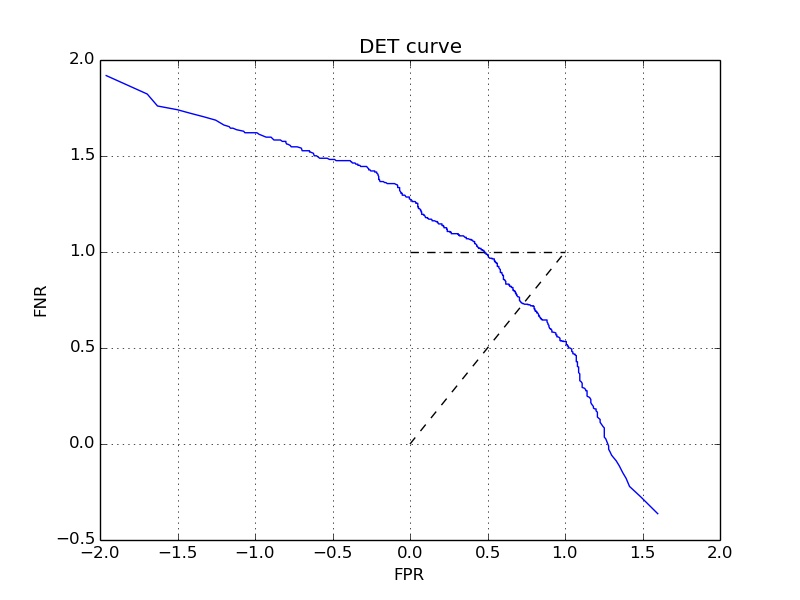
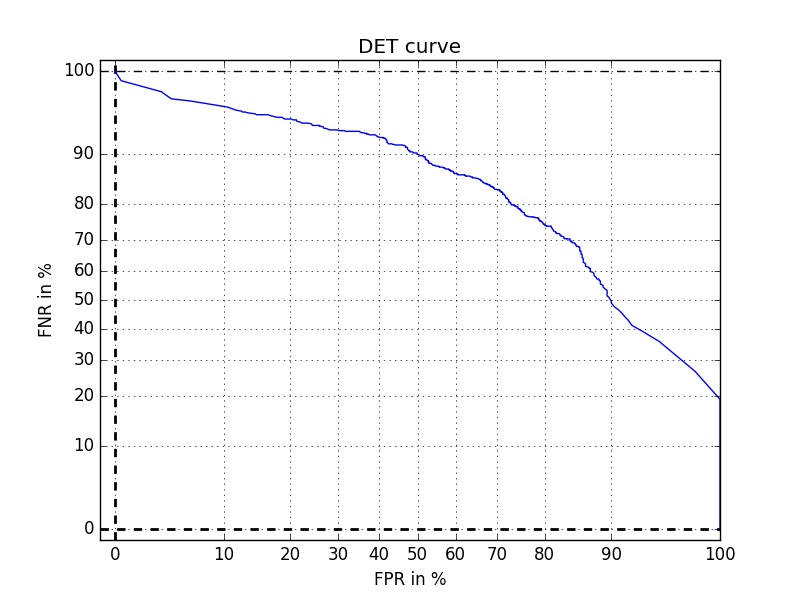
Done with ls and nls

diff --git a/assignment-2/ls/scripts/compare.py b/assignment-2/ls/scripts/compare.py
@@ -1,5 +1,8 @@
 import h5py
 from matplotlib import pyplot as plt
+import numpy as np
+from scipy.stats import norm
+import matplotlib.ticker as ticker
 
 from helpers import loadModel
 from analyse import computeROC
@@ -36,7 +39,63 @@ def plotROCs(rates_list, plot):
     ax.legend([red, green, blue, yellow, cyan], ['C-1', 'C-2', 'C-3', 'C-4', 'C-5'])
     plt.savefig(plot)
 
-def compare(data, roc_plot):
+def getNormalDeviate(array):
+    vals = []
+    for i in range(len(array)):
+        val = norm.ppf(array[i])
+        if val > 2:
+            val = 2
+        elif val < -2:
+            val = -2
+        vals.append(val)
+    return vals
+
+def plotDETs(rates_list, plot):
+
+    fig = plt.figure(1)
+    ax = fig.gca()
+    # Label the graph
+    ax.set_title('DET Curves')
+    ax.set_xlabel('FPR in %')
+    ax.set_ylabel('FNR in %')
+    # Set ticks
+    vals = np.arange(0.0, 110.0, 10.0)
+    ticks_name = [str(int(val)) for val in vals]
+    ticks_pos = [norm.ppf(val / 100) for val in vals]
+    ticks_pos[0], ticks_pos[-1] = -2, 2
+    ax.xaxis.set_major_locator(ticker.FixedLocator((ticks_pos)))
+    ax.xaxis.set_major_formatter(ticker.FixedFormatter((ticks_name)))
+    ax.yaxis.set_major_locator(ticker.FixedLocator((ticks_pos)))
+    ax.yaxis.set_major_formatter(ticker.FixedFormatter((ticks_name)))
+    # Turn on grid, add x-axis and y-axis
+    ax.set_xlim([-2.1, 2])
+    ax.set_ylim([-2.1, 2.1])
+    ax.grid()
+    # Set x-axis and y-axis
+    ax.plot([-2.1, 2], [-2.0, -2.0], linestyle = '--', linewidth = 2, color = 'black')
+    ax.plot([-2.0, -2.0], [-2.1, 2.1], linestyle = '--', linewidth = 2,  color = 'black')
+    # Bound the curve above
+    ax.plot([-2.1, 2.0], [2.0, 2.0], linestyle = '--', color = 'black')
+    # Specify colors
+    colors = ['red', 'green', 'blue', 'yellow', 'cyan']
+    for model in range(5):
+        fpr, tpr = rates_list[model]
+        fnr = [1 - t for t in tpr]
+        x, y = [], []
+        x = getNormalDeviate(fpr)
+        y = getNormalDeviate(fnr)   
+        # Plot the DET curve 
+        ax.plot(x, y, linewidth = 1, color = colors[model])
+
+    red = plt.Line2D((0,1), (0,0), color = 'red', marker='o', linestyle = '')
+    green = plt.Line2D((0,1), (0,0), color = 'green', marker='o', linestyle = '')
+    blue = plt.Line2D((0,1), (0,0), color = 'blue', marker='o', linestyle = '')
+    yellow = plt.Line2D((0,1), (0,0), color = 'yellow', marker='o', linestyle = '')
+    cyan = plt.Line2D((0,1), (0,0), color = 'cyan', marker='o', linestyle = '')
+    ax.legend([red, green, blue, yellow, cyan], ['C-1', 'C-2', 'C-3', 'C-4', 'C-5'])
+    plt.savefig(plot)
+
+def compare(data, roc_plot, det_plot):
     print 'Compare models on validation data'
     rates_list = []
     for model in ['C-1', 'C-2', 'C-3', 'C-4', 'C-5']:
@@ -46,8 +105,9 @@ def compare(data, roc_plot):
         # Add to rates_list
         rates_list.append(rates)
     plotROCs(rates_list, roc_plot)
+    plotDETs(rates_list, det_plot)
 
 if __name__ == '__main__':
     data = h5py.File('data/valid.h5', 'r')
-    compare(data, 'plots/compare.jpg')
+    compare(data, 'plots/compare_roc.jpg', 'plots/compare_det.jpg')
 

diff --git a/assignment-2/nls/scripts/compare.py b/assignment-2/nls/scripts/compare.py
@@ -1,5 +1,8 @@
 import h5py
 from matplotlib import pyplot as plt
+import numpy as np
+from scipy.stats import norm
+import matplotlib.ticker as ticker
 
 from helpers import loadModel
 from analyse import computeROC
@@ -36,7 +39,63 @@ def plotROCs(rates_list, plot):
     ax.legend([red, green, blue, yellow, cyan], ['C-1', 'C-2', 'C-3', 'C-4', 'C-5'])
     plt.savefig(plot)
 
-def compare(data, roc_plot):
+def getNormalDeviate(array):
+    vals = []
+    for i in range(len(array)):
+        val = norm.ppf(array[i])
+        if val > 2:
+            val = 2
+        elif val < -2:
+            val = -2
+        vals.append(val)
+    return vals
+
+def plotDETs(rates_list, plot):
+
+    fig = plt.figure(1)
+    ax = fig.gca()
+    # Label the graph
+    ax.set_title('DET Curves')
+    ax.set_xlabel('FPR in %')
+    ax.set_ylabel('FNR in %')
+    # Set ticks
+    vals = np.arange(0.0, 110.0, 10.0)
+    ticks_name = [str(int(val)) for val in vals]
+    ticks_pos = [norm.ppf(val / 100) for val in vals]
+    ticks_pos[0], ticks_pos[-1] = -2, 2
+    ax.xaxis.set_major_locator(ticker.FixedLocator((ticks_pos)))
+    ax.xaxis.set_major_formatter(ticker.FixedFormatter((ticks_name)))
+    ax.yaxis.set_major_locator(ticker.FixedLocator((ticks_pos)))
+    ax.yaxis.set_major_formatter(ticker.FixedFormatter((ticks_name)))
+    # Turn on grid, add x-axis and y-axis
+    ax.set_xlim([-2.1, 2])
+    ax.set_ylim([-2.1, 2.1])
+    ax.grid()
+    # Set x-axis and y-axis
+    ax.plot([-2.1, 2], [-2.0, -2.0], linestyle = '--', linewidth = 2, color = 'black')
+    ax.plot([-2.0, -2.0], [-2.1, 2.1], linestyle = '--', linewidth = 2,  color = 'black')
+    # Bound the curve above
+    ax.plot([-2.1, 2.0], [2.0, 2.0], linestyle = '--', color = 'black')
+    # Specify colors
+    colors = ['red', 'green', 'blue', 'yellow', 'cyan']
+    for model in range(5):
+        fpr, tpr = rates_list[model]
+        fnr = [1 - t for t in tpr]
+        x, y = [], []
+        x = getNormalDeviate(fpr)
+        y = getNormalDeviate(fnr)   
+        # Plot the DET curve 
+        ax.plot(x, y, linewidth = 1, color = colors[model])
+
+    red = plt.Line2D((0,1), (0,0), color = 'red', marker='o', linestyle = '')
+    green = plt.Line2D((0,1), (0,0), color = 'green', marker='o', linestyle = '')
+    blue = plt.Line2D((0,1), (0,0), color = 'blue', marker='o', linestyle = '')
+    yellow = plt.Line2D((0,1), (0,0), color = 'yellow', marker='o', linestyle = '')
+    cyan = plt.Line2D((0,1), (0,0), color = 'cyan', marker='o', linestyle = '')
+    ax.legend([red, green, blue, yellow, cyan], ['C-1', 'C-2', 'C-3', 'C-4', 'C-5'])
+    plt.savefig(plot)
+
+def compare(data, roc_plot, det_plot):
     print 'Compare models on validation data'
     rates_list = []
     for model in ['C-1', 'C-2', 'C-3', 'C-4', 'C-5']:
@@ -46,8 +105,9 @@ def compare(data, roc_plot):
         # Add to rates_list
         rates_list.append(rates)
     plotROCs(rates_list, roc_plot)
+    plotDETs(rates_list, det_plot)
 
 if __name__ == '__main__':
     data = h5py.File('data/valid.h5', 'r')
-    compare(data, 'plots/compare.jpg')
+    compare(data, 'plots/compare_roc.jpg', 'plots/compare_det.jpg')
 

diff --git a/assignment-2/ls/scripts/analyse.py b/assignment-2/ls/scripts/analyse.py
@@ -1,5 +1,7 @@
 import numpy as np
 from matplotlib import pyplot as plt
+import matplotlib.ticker as ticker
+from scipy.stats import norm
 
 from helpers import multivariateNormalPDF
 
@@ -34,7 +36,10 @@ def computeROC(data, params):
     predictions = predict(data, params)
 
     # ROC curve computation
-    thresholds = np.arange(0, 1.001, 0.001)
+    thresholds_left = [1.0 / 10**i for i in np.arange(16, 3, -1)]
+    thresholds_central = list(np.arange(0.001, 1.0, 0.001))
+    thresholds_right = [1 - l for l in thresholds_left[::-1]]
+    thresholds = [0] + thresholds_left + thresholds_central + thresholds_right + [1.0]
     tprs, fprs = [], []
 
     # Choose one threshold - one point on the ROC curve
@@ -93,26 +98,52 @@ def plotROC(rates, plot, title, figure):
     ax.plot(rates[0], rates[1], linewidth = 1)
     plt.savefig(plot)
 
+def getNormalDeviate(array):
+    vals = []
+    for i in range(len(array)):
+        val = norm.ppf(array[i])
+        if val > 2:
+            val = 2
+        elif val < -2:
+            val = -2
+        vals.append(val)
+    return vals
+
 def plotDET(rates, plot, title, figure):
-    tpr, fpr = rates
+
+    fpr, tpr = rates
     fnr = [1 - t for t in tpr]
+    x, y = [], []
+    x = getNormalDeviate(fpr)
+    y = getNormalDeviate(fnr)
     fig = plt.figure(figure)
     ax = fig.gca()
-    # Random classifier
-    ax.plot([0, 1], [0, 1], linestyle = '--', color = 'black')
-    # Bound the curve above
-    ax.plot([0, 1], [1, 1], linestyle = '--', color = 'black')
     # Label the graph
     ax.set_title(title)
-    ax.set_xlabel('FNR')
-    ax.set_ylabel('FPR')
-    # Set scales
-    ax.set_xscale('log')
-    ax.set_yscale('log')
+    ax.set_xlabel('FPR in %')
+    ax.set_ylabel('FNR in %')
+    # Set ticks
+    vals = np.arange(0.0, 110.0, 10.0)
+    ticks_name = [str(int(val)) for val in vals]
+    print ticks_name
+    ticks_pos = [norm.ppf(val / 100) for val in vals]
+    ticks_pos[0], ticks_pos[-1] = -2, 2
+    ax.xaxis.set_major_locator(ticker.FixedLocator((ticks_pos)))
+    ax.xaxis.set_major_formatter(ticker.FixedFormatter((ticks_name)))
+    ax.yaxis.set_major_locator(ticker.FixedLocator((ticks_pos)))
+    ax.yaxis.set_major_formatter(ticker.FixedFormatter((ticks_name)))
     # Turn on grid, add x-axis and y-axis
+    print ticks_pos
+    ax.set_xlim([-2.1, 2])
+    ax.set_ylim([-2.1, 2.1])
     ax.grid()
-    # Plot the ROC curve 
-    ax.plot(fnr, fpr, linewidth = 1)
+    # Set x-axis and y-axis
+    ax.plot([-2.1, 2], [-2.0, -2.0], linestyle = '--', linewidth = 2, color = 'black')
+    ax.plot([-2.0, -2.0], [-2.1, 2.1], linestyle = '--', linewidth = 2,  color = 'black')
+    # Bound the curve above
+    ax.plot([-2.1, 2.0], [2.0, 2.0], linestyle = '--', color = 'black')
+    # Plot the DET curve 
+    ax.plot(x, y, linewidth = 1)
     plt.savefig(plot)
 
 def printConfusionMatrix(data, params):

diff --git a/assignment-2/nls/scripts/analyse.py b/assignment-2/nls/scripts/analyse.py
@@ -1,5 +1,6 @@
 import numpy as np
 from matplotlib import pyplot as plt
+import matplotlib.ticker as ticker
 from scipy.stats import norm
 
 from helpers import multivariateNormalPDF
@@ -35,7 +36,10 @@ def computeROC(data, params):
     predictions = predict(data, params)
 
     # ROC curve computation
-    thresholds = np.arange(0, 1.001, 0.001)
+    thresholds_left = [1.0 / 10**i for i in np.arange(16, 3, -1)]
+    thresholds_central = list(np.arange(0.001, 1.0, 0.001))
+    thresholds_right = [1 - l for l in thresholds_left[::-1]]
+    thresholds = [0] + thresholds_left + thresholds_central + thresholds_right + [1.0]
     tprs, fprs = [], []
 
     # Choose one threshold - one point on the ROC curve
@@ -94,22 +98,51 @@ def plotROC(rates, plot, title, figure):
     ax.plot(rates[0], rates[1], linewidth = 1)
     plt.savefig(plot)
 
+def getNormalDeviate(array):
+    vals = []
+    for i in range(len(array)):
+        val = norm.ppf(array[i])
+        if val > 2:
+            val = 2
+        elif val < -2:
+            val = -2
+        vals.append(val)
+    return vals
+
 def plotDET(rates, plot, title, figure):
-    tpr, fpr = rates
+
+    fpr, tpr = rates
     fnr = [1 - t for t in tpr]
-    x = [norm.ppf(w) for w in fpr]
-    y = [norm.ppf(w) for w in fnr]
-    print x
-    print y
+    x, y = [], []
+    x = getNormalDeviate(fpr)
+    y = getNormalDeviate(fnr)
     fig = plt.figure(figure)
     ax = fig.gca()
     # Label the graph
     ax.set_title(title)
-    ax.set_xlabel('FPR')
-    ax.set_ylabel('FNR')
+    ax.set_xlabel('FPR in %')
+    ax.set_ylabel('FNR in %')
+    # Set ticks
+    vals = np.arange(0.0, 110.0, 10.0)
+    ticks_name = [str(int(val)) for val in vals]
+    print ticks_name
+    ticks_pos = [norm.ppf(val / 100) for val in vals]
+    ticks_pos[0], ticks_pos[-1] = -2, 2
+    ax.xaxis.set_major_locator(ticker.FixedLocator((ticks_pos)))
+    ax.xaxis.set_major_formatter(ticker.FixedFormatter((ticks_name)))
+    ax.yaxis.set_major_locator(ticker.FixedLocator((ticks_pos)))
+    ax.yaxis.set_major_formatter(ticker.FixedFormatter((ticks_name)))
     # Turn on grid, add x-axis and y-axis
+    print ticks_pos
+    ax.set_xlim([-2.1, 2])
+    ax.set_ylim([-2.1, 2.1])
     ax.grid()
-    # Plot the ROC curve 
+    # Set x-axis and y-axis
+    ax.plot([-2.1, 2], [-2.0, -2.0], linestyle = '--', linewidth = 2, color = 'black')
+    ax.plot([-2.0, -2.0], [-2.1, 2.1], linestyle = '--', linewidth = 2,  color = 'black')
+    # Bound the curve above
+    ax.plot([-2.1, 2.0], [2.0, 2.0], linestyle = '--', color = 'black')
+    # Plot the DET curve 
     ax.plot(x, y, linewidth = 1)
     plt.savefig(plot)
 

diff --git a/assignment-2/nls/scripts/solver_1.py b/assignment-2/nls/scripts/solver_1.py
@@ -51,20 +51,18 @@ def test(data, params, plot):
     plotData(data, plot, title = 'Test data', figure = 5)
 
 if __name__ == '__main__':
-    '''
     data = h5py.File('data/train.h5', 'r')
     # Training
-    mus, covs = train(data, 'plots/C-1/train/2/data.jpg',\
-                            'plots/C-1/train/2/pdf.jpg',\
-                            'plots/C-1/train/2/contours.jpg',\
-                            'plots/C-1/train/2/boundaries.jpg',\
+    mus, covs = train(data, 'plots/C-1/train/0/data.jpg',\
+                            'plots/C-1/train/0/pdf.jpg',\
+                            'plots/C-1/train/0/contours.jpg',\
+                            'plots/C-1/train/0/boundaries.jpg',\
                              0) 
     # Save model
-    saveModel([mus, covs], 'models/C-1/2/model.h5')
-    '''
+    saveModel([mus, covs], 'models/C-1/0/model.h5')
     # Load model
-    mus, covs = loadModel('models/C-1/2/model.h5')
+    mus, covs = loadModel('models/C-1/0/model.h5')
     # Validation
     data = h5py.File('data/valid.h5', 'r')
-    rates = validate(data, [mus, covs], 'plots/C-1/valid/2/roc.jpg', 'plots/C-1/valid/2/det.jpg')
+    rates = validate(data, [mus, covs], 'plots/C-1/valid/0/roc.jpg', 'plots/C-1/valid/0/det.jpg')
 

diff --git a/assignment-2/nls/scripts/solver_4.py b/assignment-2/nls/scripts/solver_4.py
@@ -50,16 +50,16 @@ def test(data, params, plot):
 if __name__ == '__main__':
     data = h5py.File('data/train.h5', 'r')
     # Training
-    mus, covs = train(data, 'plots/C-4/train/2/data.jpg',\
-                            'plots/C-4/train/2/pdf.jpg',\
-                            'plots/C-4/train/2/contours.jpg',\
-                            'plots/C-4/train/2/boundaries.jpg',\
-                             2)   
+    mus, covs = train(data, 'plots/C-4/train/1/data.jpg',\
+                            'plots/C-4/train/1/pdf.jpg',\
+                            'plots/C-4/train/1/contours.jpg',\
+                            'plots/C-4/train/1/boundaries.jpg',\
+                             1)   
     # Save model
-    saveModel([mus, covs], 'models/C-4/2/model.h5')
+    saveModel([mus, covs], 'models/C-4/1/model.h5')
     # Load model
-    mus, covs = loadModel('models/C-4/2/model.h5')
+    mus, covs = loadModel('models/C-4/1/model.h5')
     # Validation
     data = h5py.File('data/valid.h5', 'r')
-    rates = validate(data, [mus, covs], 'plots/C-4/valid/2/roc.jpg')
+    rates = validate(data, [mus, covs], 'plots/C-4/valid/1/roc.jpg')
 

diff --git a/assignment-2/nls/models/README.md b/assignment-2/nls/models/README.md
@@ -1,0 +1,6 @@
+C-1 : Model of class-0
+C-2 : 
+C-3 : Model of class-2 : 4
+C-4 : Model of class-1
+C-5 : 
+
